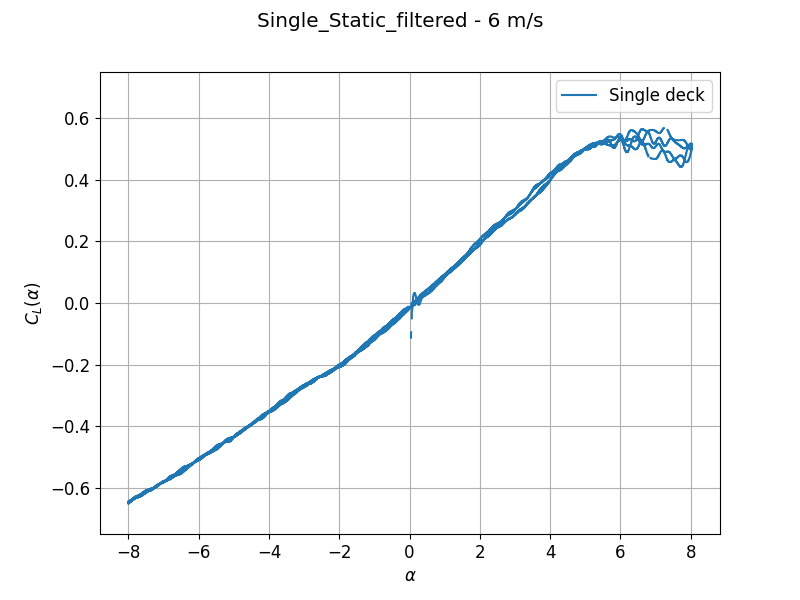
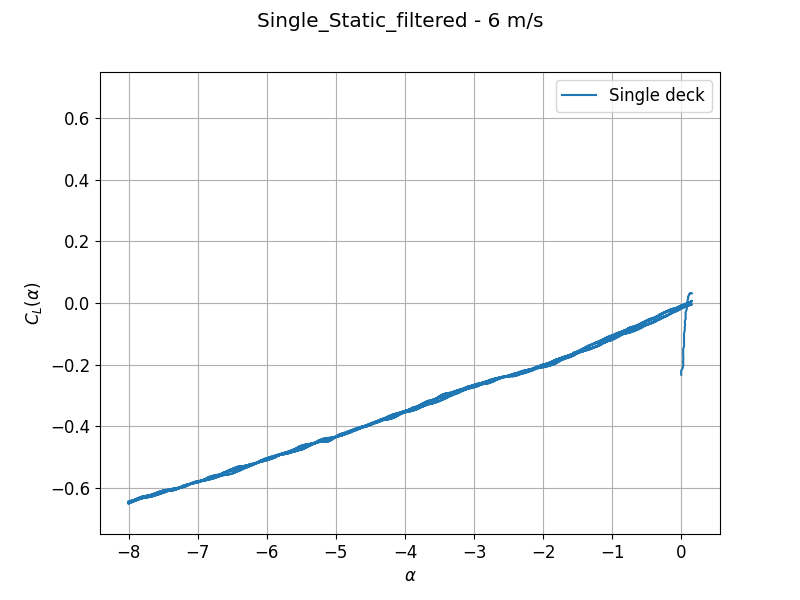
debugge

diff --git a/w3tp/w3t/_scoff.py b/w3tp/w3t/_scoff.py
@@ -1520,10 +1520,10 @@ def filter(static_coeff, threshold=0.3, scoff="", single=True):
 
 
 
-def filter_by_reference(static_coeff_1, static_coeff_2, static_coeff_3=None, threshold=0.1,
-                        threshold_low=[0.05, 0.05, 0.05], threshold_med=[None, None, None],
-                        threshold_high=[0.05, 0.05, 0.05], single=False):
 
+def filter_by_reference(static_coeff_1, static_coeff_2, static_coeff_3=None, threshold=0.1,
+                               threshold_low=[0.05, 0.05, 0.05], threshold_med=[None, None, None],
+                               threshold_high=[0.05, 0.05, 0.05], single=False):
     def get_coeffs(static_coeff):
         alpha = np.round(static_coeff.pitch_motion * 360 / (2 * np.pi), 1)
         return alpha, static_coeff.drag_coeff.copy(), static_coeff.lift_coeff.copy(), static_coeff.pitch_coeff.copy()
@@ -1531,17 +1531,14 @@ def filter_by_reference(static_coeff_1, static_coeff_2, static_coeff_3=None, thr
     def remove_after_jump(alpha_vals, coeff_array, threshold_jump=0.1, cols=(0, 1)):
         alpha_vals_rounded = np.round(alpha_vals, 1)
         unique_alpha = np.sort(np.unique(alpha_vals_rounded))
-
         for i, alpha in enumerate(unique_alpha):
             idx = np.where(alpha_vals_rounded == alpha)[0]
             if len(idx) == 0:
                 continue
-
             current_vals = coeff_array[idx, cols[0]] + coeff_array[idx, cols[1]]
             current_mean = np.nanmean(current_vals)
             if np.isnan(current_mean):
                 continue
-
             p = 1
             while i - p >= 0:
                 prev_idx = np.where(alpha_vals_rounded == unique_alpha[i - p])[0]
@@ -1555,17 +1552,12 @@ def filter_by_reference(static_coeff_1, static_coeff_2, static_coeff_3=None, thr
                 p += 1
             else:
                 continue
-
             if np.abs(current_mean - prev_mean) > threshold_jump:
                 mask = alpha_vals_rounded > alpha
                 coeff_array[mask, cols[0]] = np.nan
                 coeff_array[mask, cols[1]] = np.nan
                 break
-
         return coeff_array
-
-    def spread(vals):
-        return np.nanmax(vals) - np.nanmin(vals)
 
     alpha_1, drag_1, lift_1, pitch_1 = get_coeffs(static_coeff_1)
     alpha_2, drag_2, lift_2, pitch_2 = get_coeffs(static_coeff_2)
@@ -1592,74 +1584,78 @@ def filter_by_reference(static_coeff_1, static_coeff_2, static_coeff_3=None, thr
     for val in unique_alpha:
         idx1 = np.where(alpha_1 == val)[0]
         idx2 = np.where(alpha_2 == val)[0]
-        idx3 = np.where(alpha_3 == val)[0] if not single else []
 
-        if single and not (len(idx1) and len(idx2)):
-            continue
-        if not single and not (len(idx1) and len(idx2) and len(idx3)):
-            continue
+        if single:
+            if not (len(idx1) and len(idx2)):
+                continue
 
-        for i, name in enumerate(coeff_names):
-            this_threshold_low = threshold_low[i] if threshold_low[i] is not None else threshold
-            this_threshold_med = threshold_med[i] if threshold_med[i] is not None else threshold
-            this_threshold_high = threshold_high[i] if threshold_high[i] is not None else threshold
+            for i, name in enumerate(coeff_names):
+                this_threshold_low  = threshold_low[i] if threshold_low[i] is not None else threshold
+                this_threshold_high = threshold_high[i] if threshold_high[i] is not None else threshold
 
-            # get values
-            get_sum = lambda c, idx, cols: c[idx, cols[0]] + c[idx, cols[1]]
-            cols_up = (0, 1)
-            cols_down = (2, 3)
+                coeff_1 = coeffs_1[i]
+                coeff_2 = coeffs_2[i]
+                coeff_1_f = coeffs_1_filt[i]
+                coeff_2_f = coeffs_2_filt[i]
 
-            if not single:
-                vals = [
-                    get_sum(coeffs_1[i], idx1, cols_up),
-                    get_sum(coeffs_2[i], idx2, cols_up),
-                    get_sum(coeffs_3[i], idx3, cols_up)
-                ]
-                spreads = [spread(v) for v in vals]
-                nan_mask = [np.any(np.isnan(v)) for v in vals]
-                ref_idx = None
+                vals_1 = coeff_1[idx1, 0] + coeff_1[idx1, 1]
+                vals_2 = coeff_2[idx2, 0] + coeff_2[idx2, 1]
+                spread_1 = np.nanmax(vals_1) - np.nanmin(vals_1)
+                spread_2 = np.nanmax(vals_2) - np.nanmin(vals_2)
 
-                if sum(~np.array(nan_mask)) == 1:
-                    ref_idx = (~np.array(nan_mask)).index(True)
-                elif sum(~np.array(nan_mask)) >= 2:
-                    candidates = [j for j, ok in enumerate(nan_mask) if not ok]
-                    ref_idx = min(candidates, key=lambda j: spreads[j])
+                if spread_1 <= spread_2:
+                    ref_mean = np.nanmean(vals_1)
+                else:
+                    ref_mean = np.nanmean(vals_2)
 
-                if ref_idx is None:
-                    continue
-
-                ref_mean = np.nanmean(vals[ref_idx])
-                for idx, c_f in zip([idx1, idx2, idx3], [coeffs_1_filt[i], coeffs_2_filt[i], coeffs_3_filt[i]]):
-                    summed = get_sum(c_f, idx, cols_up)
+                for idx, coeff_array in zip([idx1, idx2], [coeff_1_f, coeff_2_f]):
+                    summed = coeff_array[idx, 0] + coeff_array[idx, 1]
                     mask = np.abs(summed - ref_mean) > threshold
-                    c_f[idx[mask], cols_up[0]] = np.nan
-                    c_f[idx[mask], cols_up[1]] = np.nan
+                    coeff_array[idx[mask], 0] = np.nan
+                    coeff_array[idx[mask], 1] = np.nan
 
-                # downwind
-                vals_d = [
-                    get_sum(coeffs_1[i], idx1, cols_down),
-                    get_sum(coeffs_2[i], idx2, cols_down),
-                    get_sum(coeffs_3[i], idx3, cols_down)
-                ]
-                spreads_d = [spread(v) for v in vals_d]
-                nan_mask_d = [np.any(np.isnan(v)) for v in vals_d]
+        else:
+            idx3 = np.where(alpha_3 == val)[0]
+            if not (len(idx1) and len(idx2) and len(idx3)):
+                continue
 
-                ref_idx_d = None
-                if sum(~np.array(nan_mask_d)) == 1:
-                    ref_idx_d = (~np.array(nan_mask_d)).index(True)
-                elif sum(~np.array(nan_mask_d)) >= 2:
-                    candidates = [j for j, ok in enumerate(nan_mask_d) if not ok]
-                    ref_idx_d = min(candidates, key=lambda j: spreads_d[j])
+            for i, name in enumerate(coeff_names):
+                this_threshold_low  = threshold_low[i] if threshold_low[i] is not None else threshold
+                this_threshold_med  = threshold_med[i] if threshold_med[i] is not None else threshold
+                this_threshold_high = threshold_high[i] if threshold_high[i] is not None else threshold
 
-                if ref_idx_d is None:
-                    continue
+                coeff_1 = coeffs_1[i]
+                coeff_2 = coeffs_2[i]
+                coeff_3 = coeffs_3[i]
+                coeff_1_f = coeffs_1_filt[i]
+                coeff_2_f = coeffs_2_filt[i]
+                coeff_3_f = coeffs_3_filt[i]
 
-                ref_mean_d = np.nanmean(vals_d[ref_idx_d])
-                for idx, c_f in zip([idx1, idx2, idx3], [coeffs_1_filt[i], coeffs_2_filt[i], coeffs_3_filt[i]]):
-                    summed = get_sum(c_f, idx, cols_down)
-                    mask = np.abs(summed - ref_mean_d) > threshold
-                    c_f[idx[mask], cols_down[0]] = np.nan
-                    c_f[idx[mask], cols_down[1]] = np.nan
+                vals_up = [coeff_1[idx1, 0] + coeff_1[idx1, 1],
+                           coeff_2[idx2, 0] + coeff_2[idx2, 1],
+                           coeff_3[idx3, 0] + coeff_3[idx3, 1]]
+                spreads_up = [np.nanmax(v) - np.nanmin(v) for v in vals_up]
+                ref_idx_up = np.argmin(spreads_up)
+                ref_mean_up = np.nanmean(vals_up[ref_idx_up])
+
+                for idx, coeff_array in zip([idx1, idx2, idx3], [coeff_1_f, coeff_2_f, coeff_3_f]):
+                    summed = coeff_array[idx, 0] + coeff_array[idx, 1]
+                    mask = np.abs(summed - ref_mean_up) > threshold
+                    coeff_array[idx[mask], 0] = np.nan
+                    coeff_array[idx[mask], 1] = np.nan
+
+                vals_down = [coeff_1[idx1, 2] + coeff_1[idx1, 3],
+                             coeff_2[idx2, 2] + coeff_2[idx2, 3],
+                             coeff_3[idx3, 2] + coeff_3[idx3, 3]]
+                spreads_down = [np.nanmax(v) - np.nanmin(v) for v in vals_down]
+                ref_idx_down = np.argmin(spreads_down)
+                ref_mean_down = np.nanmean(vals_down[ref_idx_down])
+
+                for idx, coeff_array in zip([idx1, idx2, idx3], [coeff_1_f, coeff_2_f, coeff_3_f]):
+                    summed = coeff_array[idx, 2] + coeff_array[idx, 3]
+                    mask = np.abs(summed - ref_mean_down) > threshold
+                    coeff_array[idx[mask], 2] = np.nan
+                    coeff_array[idx[mask], 3] = np.nan
 
     for i, alpha in enumerate([alpha_1, alpha_2] if single else [alpha_1, alpha_2, alpha_3]):
         for coeff_array in ([coeffs_1_filt[i], coeffs_2_filt[i]] if single else [coeffs_1_filt[i], coeffs_2_filt[i], coeffs_3_filt[i]]):
@@ -1682,7 +1678,6 @@ def filter_by_reference(static_coeff_1, static_coeff_2, static_coeff_3=None, thr
         setattr(static_coeff_3_f, f"{name}_coeff", data)
 
     return static_coeff_1_f, static_coeff_2_f, static_coeff_3_f
-
 
 
 
